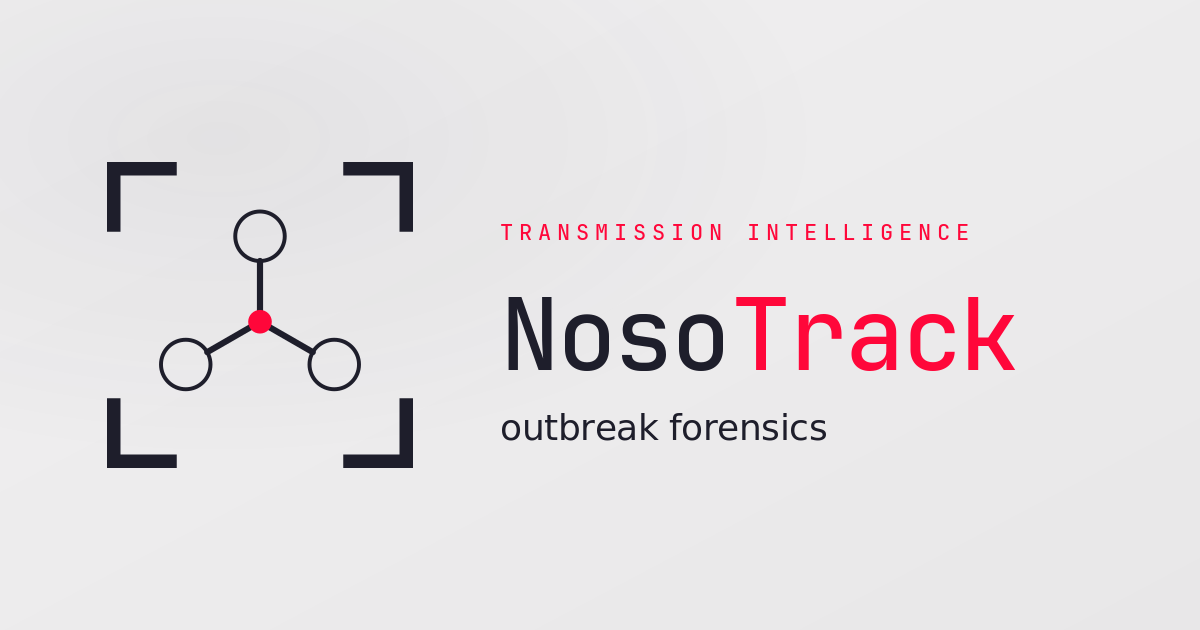
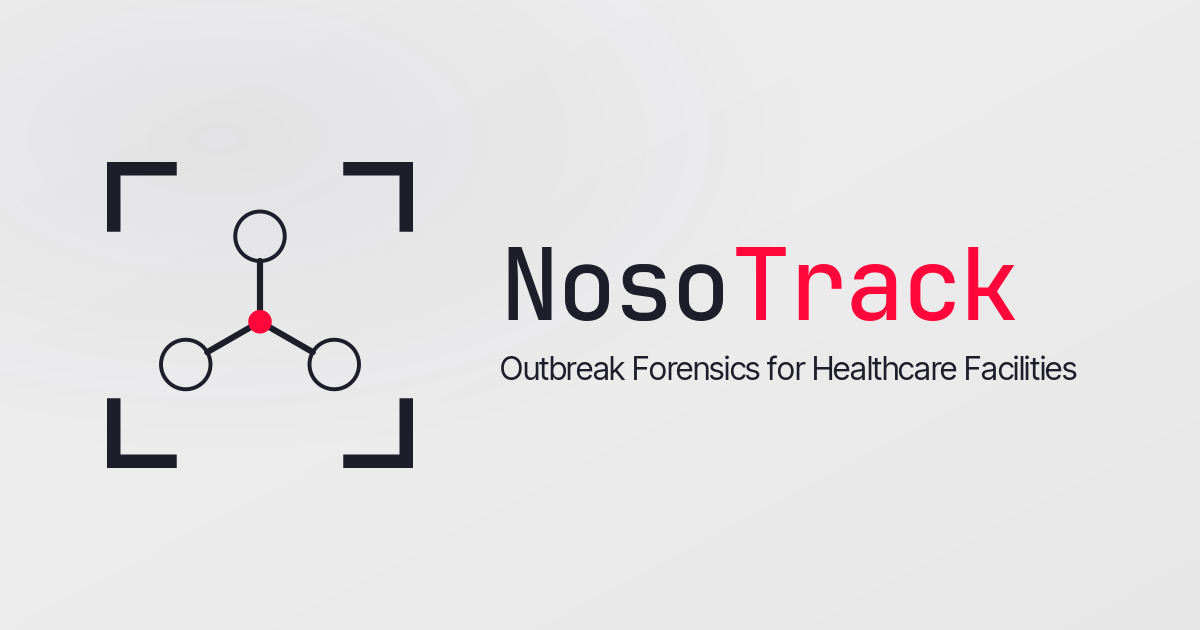
Update terminology from "outbreak reconstruction" to "outbreak forensics" across content, metadata, and OG images

Changed region(s): [[0.4008, 0.3619, 0.8942, 0.6032], [0.4008, 0.6635, 0.7092, 0.7238]]

diff --git a/index.html b/index.html
@@ -13,20 +13,20 @@
     <!-- OpenGraph Meta -->
     <meta property="og:type" content="website">
     <meta property="og:url" content="https://nosotrack.com/">
-    <meta property="og:title" content="NosoTrack — Real-Time Nosocomial Outbreak Analytics">
+    <meta property="og:title" content="NosoTrack — Outbreak Forensics for Healthcare Facilities">
     <meta property="og:description"
-        content="NosoTrack infers who infected whom in near real-time, enabling hospital Infection Prevention Teams to stop outbreaks before they escalate.">
+        content="NosoTrack infers who infected whom in near real-time, enabling hospital control teams to stop outbreaks before they escalate.">
     <meta property="og:image" content="https://nosotrack.com/images/og-card.png">
 
     <!-- Twitter Card -->
     <meta name="twitter:card" content="summary_large_image">
-    <meta name="twitter:title" content="NosoTrack — Real-Time Nosocomial Outbreak Analytics">
+    <meta name="twitter:title" content="NosoTrack — Outbreak Forensics for Healthcare Facilities">
     <meta name="twitter:description"
-        content="NosoTrack infers who infected whom in near real-time, enabling hospital Infection Prevention Teams to stop outbreaks before they escalate.">
+        content="NosoTrack infers who infected whom in near real-time, enabling hospital control teams to stop outbreaks before they escalate.">
     <meta name="twitter:image" content="https://nosotrack.com/images/og-card.png">
 
     <meta name="description"
-        content="Real-Time Nosocomial Outbreak Analytics. NosoTrack infers who infected whom in near real-time, enabling hospital Infection Prevention Teams to stop outbreaks before they escalate.">
+        content="NosoTrack infers who infected whom in near real-time, enabling hospital control teams to stop outbreaks before they escalate.">
 
     <link rel="preconnect" href="https://fonts.googleapis.com">
     <link rel="preconnect" href="https://fonts.gstatic.com" crossorigin>

diff --git a/pipeline-engine.js b/pipeline-engine.js
@@ -1,4 +1,4 @@
-// pipeline-engine.js — full outbreak reconstruction (the "Transmission Tree
+// pipeline-engine.js — full outbreak forensics (the "Transmission Tree
 // Inference" card on #platform). Owns its own scripted timeline, particle
 // effects, banner overlays, and the playbar wiring (via playbar.js).
 // Self-bootstrapping: owns its frame counter and rAF loop.
